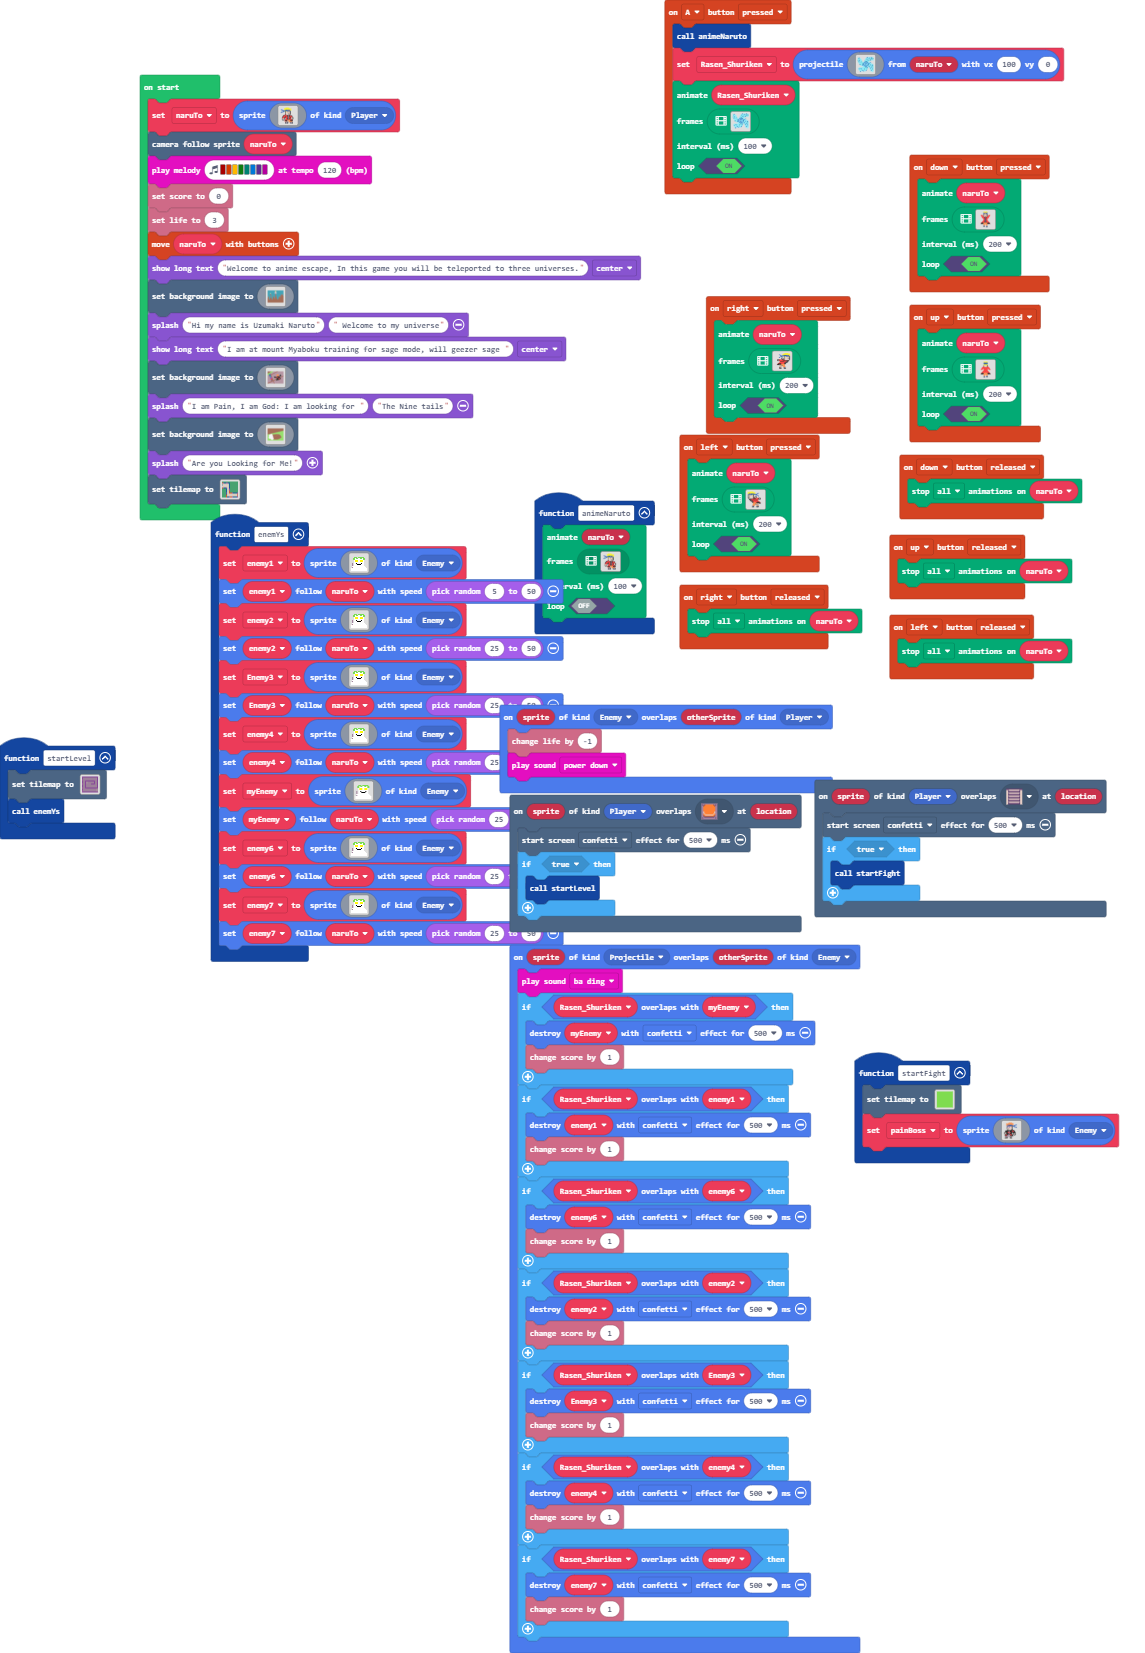
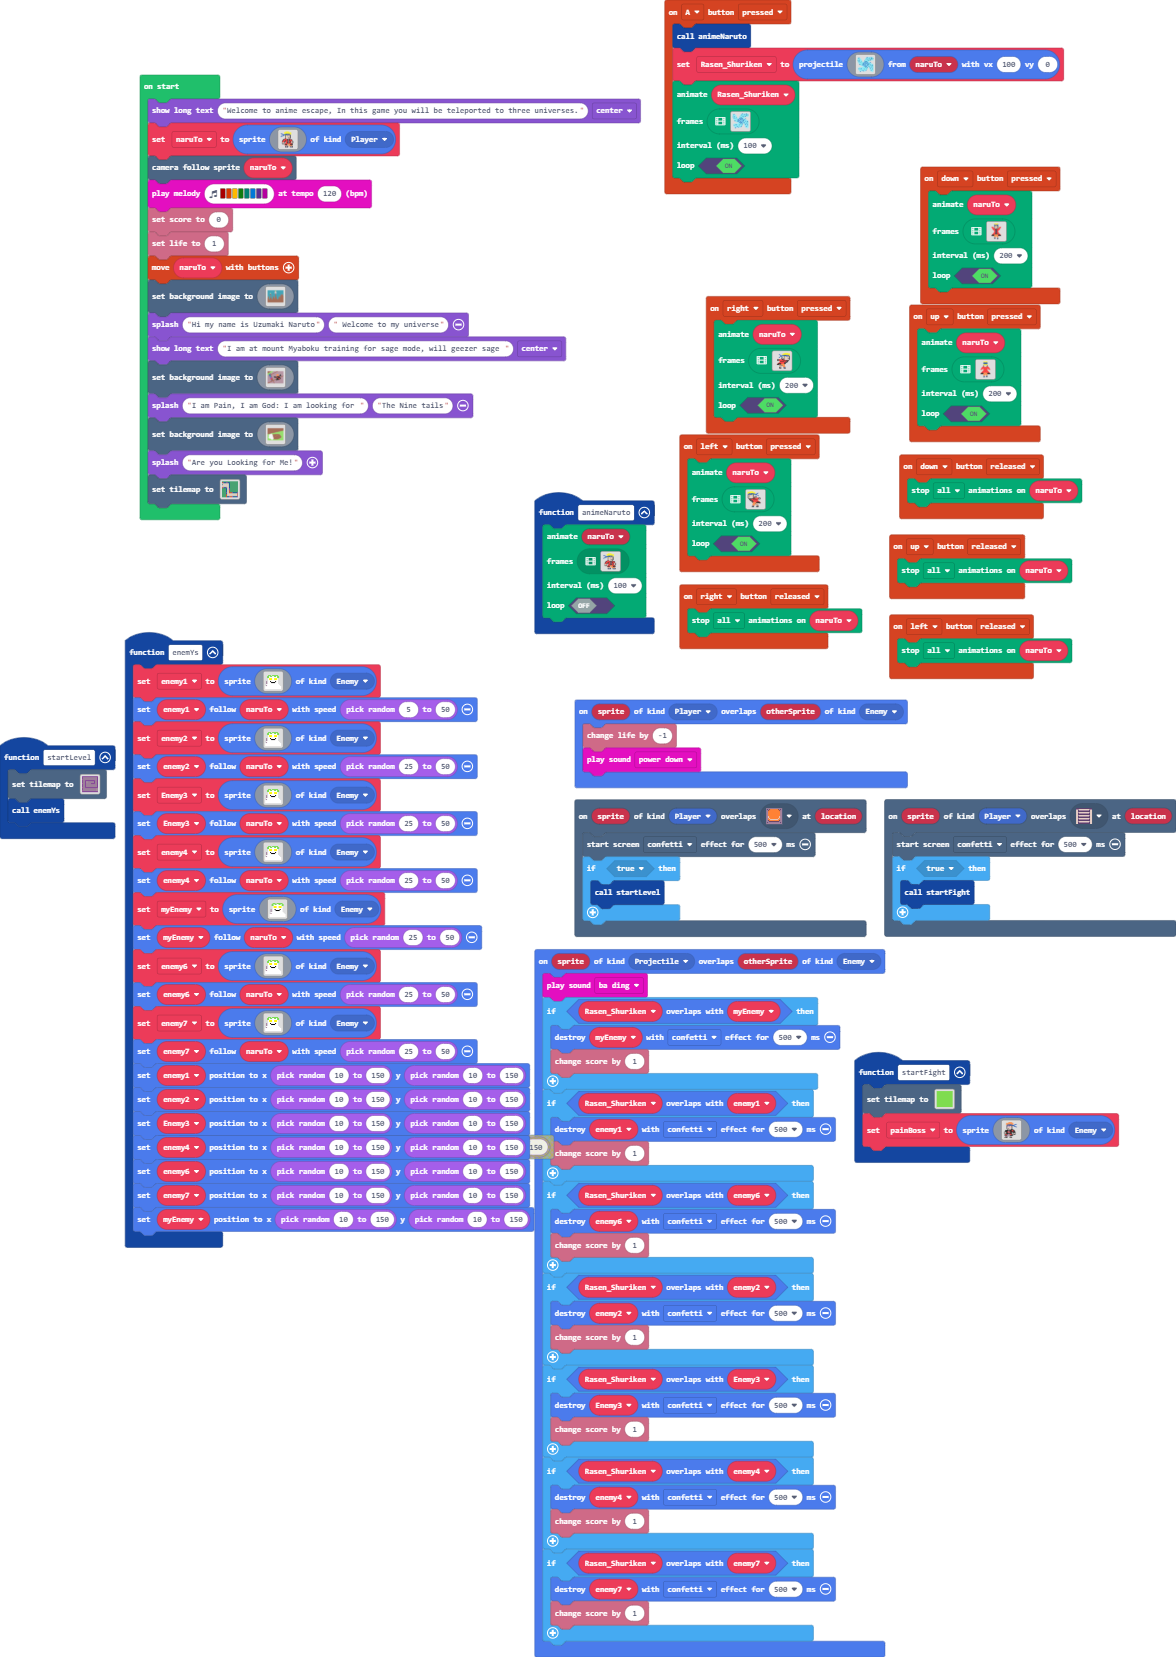
Update pxt.json, main.blocks, main.ts

diff --git a/main.ts b/main.ts
@@ -140,6 +140,13 @@ function enemYs () {
         1 1 1 1 1 1 1 1 1 1 1 1 1 1 1 1 
         `, SpriteKind.Enemy)
     enemy7.follow(naruTo, randint(25, 50))
+    enemy1.setPosition(randint(10, 150), randint(10, 150))
+    enemy2.setPosition(randint(10, 150), randint(10, 150))
+    Enemy3.setPosition(randint(10, 150), randint(10, 150))
+    enemy4.setPosition(randint(10, 150), randint(10, 150))
+    enemy6.setPosition(randint(10, 150), randint(10, 150))
+    enemy7.setPosition(randint(10, 150), randint(10, 150))
+    myEnemy.setPosition(randint(10, 150), randint(10, 150))
 }
 controller.A.onEvent(ControllerButtonEvent.Pressed, function () {
     animeNaruto()
@@ -188,10 +195,6 @@ function animeNaruto () {
     false
     )
 }
-sprites.onOverlap(SpriteKind.Enemy, SpriteKind.Player, function (sprite, otherSprite) {
-    info.changeLifeBy(-1)
-    music.powerDown.play()
-})
 controller.up.onEvent(ControllerButtonEvent.Released, function () {
     animation.stopAnimation(animation.AnimationTypes.All, naruTo)
 })
@@ -250,6 +253,10 @@ scene.onOverlapTile(SpriteKind.Player, sprites.dungeon.stairSouth, function (spr
         startFight()
     }
 })
+sprites.onOverlap(SpriteKind.Player, SpriteKind.Enemy, function (sprite, otherSprite) {
+    info.changeLifeBy(-1)
+    music.powerDown.play()
+})
 let painBoss: Sprite = null
 let Rasen_Shuriken: Sprite = null
 let enemy7: Sprite = null
@@ -260,13 +267,13 @@ let Enemy3: Sprite = null
 let enemy2: Sprite = null
 let enemy1: Sprite = null
 let naruTo: Sprite = null
+game.showLongText("Welcome to anime escape, In this game you will be teleported to three universes.", DialogLayout.Center)
 naruTo = sprites.create(assets.image`Naruto`, SpriteKind.Player)
 scene.cameraFollowSprite(naruTo)
 music.playMelody("C5 B A G F E D C ", 120)
 info.setScore(0)
-info.setLife(3)
+info.setLife(1)
 controller.moveSprite(naruTo)
-game.showLongText("Welcome to anime escape, In this game you will be teleported to three universes.", DialogLayout.Center)
 scene.setBackgroundImage(img`
     6666666666666666666666666666666666666666666666666666666666666666666666666666666666666666666666666666666666666666666666666666666666666666666666666666666666666666
     6666666666666666666666666666666666666666666666666666666666666666666666666666666666666666666666666666666666666666666666666666666666666666666666666666666666666666
